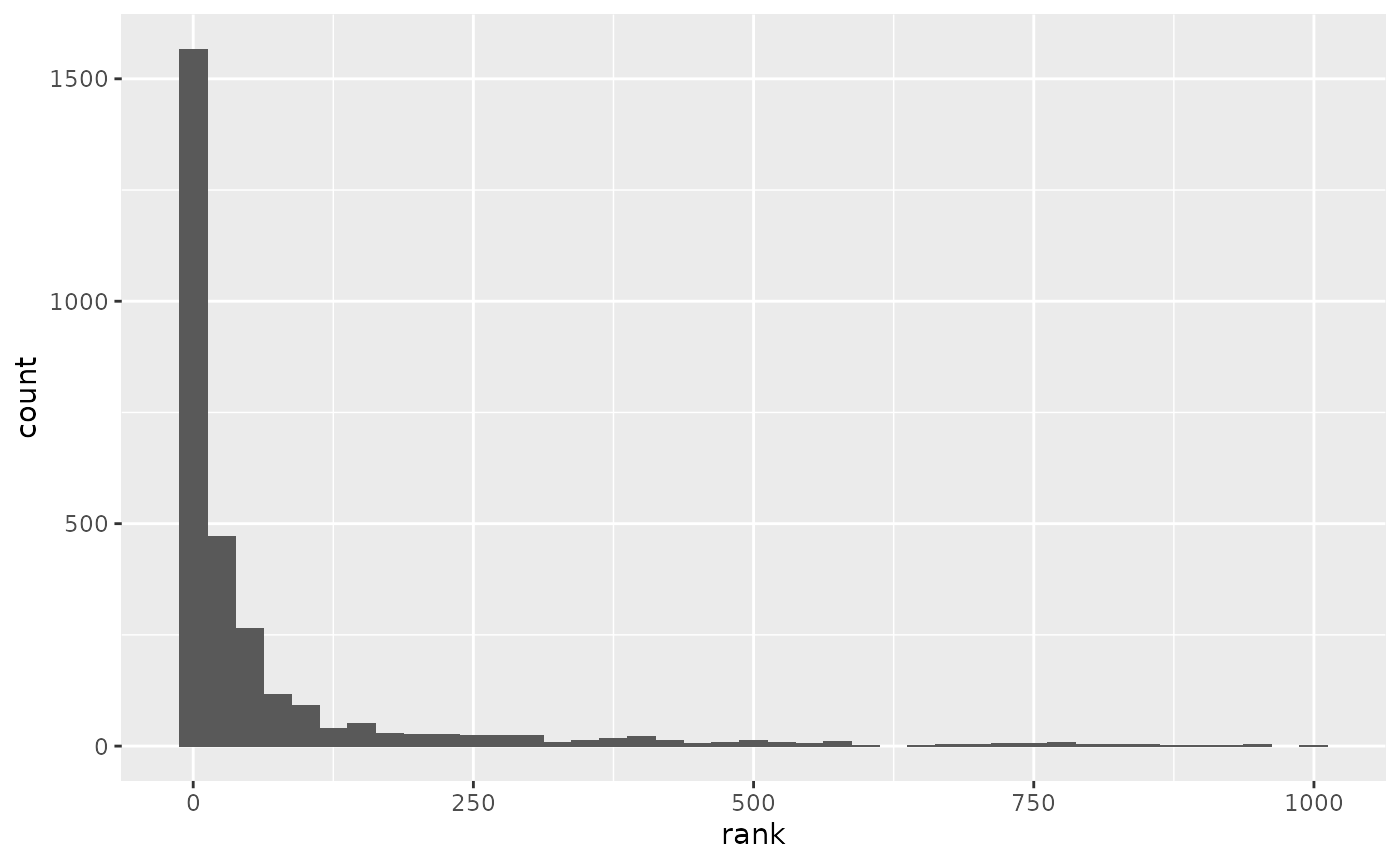
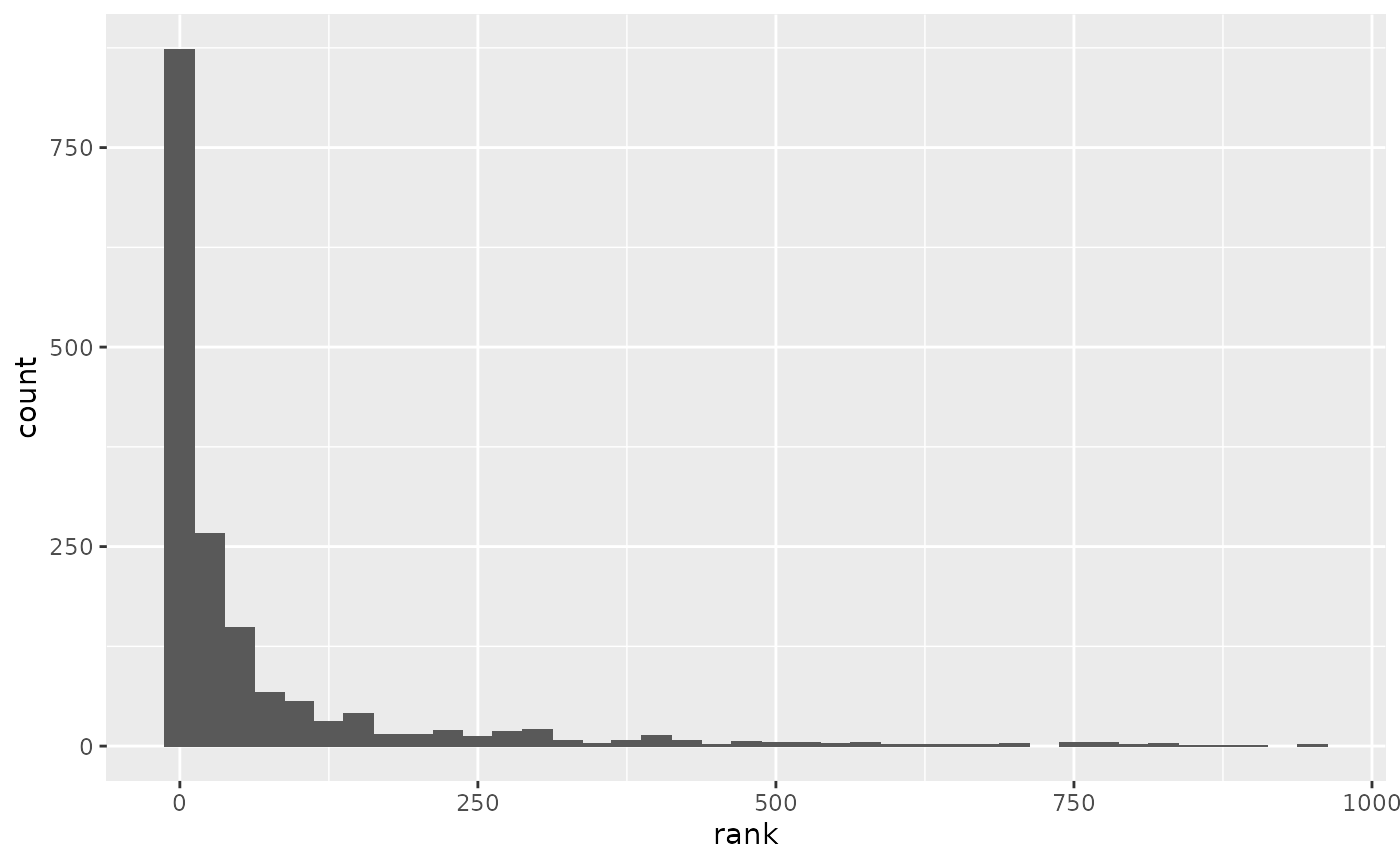
Update description of eval_sbo_predictor() in NEWS, vignette and website

diff --git a/docs/articles/sbo.html b/docs/articles/sbo.html
@@ -79,7 +79,7 @@
                   <a class="author_email" href="mailto:#"></a><a href="mailto:vgherard@sissa.it" class="email">vgherard@sissa.it</a>
       
                   
-            <h4 class="date">2020-11-26</h4>
+            <h4 class="date">2020-11-28</h4>
       
       <small class="dont-index">Source: <a href="https://github.com/vgherard/sbo/blob/master/vignettes/sbo.Rmd"><code>vignettes/sbo.Rmd</code></a></small>
       <div class="hidden name"><code>sbo.Rmd</code></div>
@@ -234,30 +234,32 @@
 <p>This Section leverages, for convenience, on:</p>
 <div class="sourceCode" id="cb12"><pre class="downlit sourceCode r">
 <code class="sourceCode R"><span class="kw"><a href="https://rdrr.io/r/base/library.html">library</a></span><span class="op">(</span><span class="va"><a href="https://dplyr.tidyverse.org">dplyr</a></span><span class="op">)</span> <span class="co"># installed with `sbo`</span></code></pre></div>
-<p>Once we have built our next-word predictor, we may want to directly test its predictions on an independent corpus. For this purpose, <code>sbo</code> offers the function <code>eval_sbo_predictor</code>, which performs the following test:</p>
+<p>Once we have built our next-word predictor, we may want to directly test its predictions on an independent corpus. For this purpose, <code>sbo</code> offers the function <code><a href="../reference/eval_sbo_predictor.html">eval_sbo_predictor()</a></code>, which samples <span class="math inline">\(N\)</span>-grams from a test corpus and compares the predictions from the <span class="math inline">\((N-1)\)</span>-gram prefixes with the true completions.</p>
+<p>More in detail, given a character vector <code>test</code>, where each entry of <code>test</code> represents a single document, <code><a href="../reference/eval_sbo_predictor.html">eval_sbo_predictor()</a></code> performs the following steps:</p>
 <ol style="list-style-type: decimal">
-<li>Sample a single <span class="math inline">\(N\)</span>-gram from each sentence of test corpus.</li>
+<li>Sample a single sentence from each entry of <code>test</code>, i.e. from each document.</li>
+<li>Sample a single <span class="math inline">\(N\)</span>-gram from each sentence obtained in the previous step.</li>
 <li>Predict next words from the <span class="math inline">\((N-1)\)</span>-gram prefix.</li>
 <li>Return all predictions, together with the true word completions.</li>
 </ol>
-<p>As a concrete example, we test the text-predictor trained in the previous section over the example dataset <code><a href="../reference/twitter_test.html">sbo::twitter_test</a></code>.</p>
+<p>For a reasonable estimate of prediction accuracy, the various entries of <code>test</code> should be independent documents, e.g. single tweets as in the <code><a href="../reference/twitter_test.html">sbo::twitter_test</a></code> example dataset, which we use below to test the previously trained predictor <code>p</code>.</p>
 <div class="sourceCode" id="cb13"><pre class="downlit sourceCode r">
 <code class="sourceCode R"><span class="fu"><a href="https://rdrr.io/r/base/Random.html">set.seed</a></span><span class="op">(</span><span class="fl">840</span><span class="op">)</span>
-<span class="op">(</span><span class="va">evaluation</span> <span class="op">&lt;-</span> <span class="fu"><a href="../reference/eval_sbo_predictor.html">eval_sbo_predictor</a></span><span class="op">(</span><span class="va">p</span>, <span class="fu">sbo</span><span class="fu">::</span><span class="va"><a href="../reference/twitter_test.html">twitter_test</a></span><span class="op">)</span><span class="op">)</span> <span class="co"># test &lt;- sbo::twitter_test</span>
-<span class="co">#&gt; # A tibble: 18,497 x 4</span>
-<span class="co">#&gt;    input            true      preds[,1] [,2]  [,3]    correct</span>
-<span class="co">#&gt;    &lt;chr&gt;            &lt;chr&gt;     &lt;chr&gt;     &lt;chr&gt; &lt;chr&gt;   &lt;lgl&gt;  </span>
-<span class="co">#&gt;  1 "oh hey"         shirtless a         &lt;EOS&gt; your    FALSE  </span>
-<span class="co">#&gt;  2 " "              how       i         &lt;EOS&gt; thanks  FALSE  </span>
-<span class="co">#&gt;  3 " ah"            no        &lt;EOS&gt;     i     yes     FALSE  </span>
-<span class="co">#&gt;  4 "he estudiado"   &lt;EOS&gt;     &lt;EOS&gt;     the   it      TRUE   </span>
-<span class="co">#&gt;  5 "nada d"         &lt;EOS&gt;     &lt;EOS&gt;     from  project TRUE   </span>
-<span class="co">#&gt;  6 "mama no"        esta      &lt;EOS&gt;     more  matter  FALSE  </span>
-<span class="co">#&gt;  7 "ya mean"        &lt;EOS&gt;     &lt;EOS&gt;     to    i       TRUE   </span>
-<span class="co">#&gt;  8 "tennis the"     scoring   word      same  best    FALSE  </span>
-<span class="co">#&gt;  9 " thanks"        for       for       &lt;EOS&gt; to      TRUE   </span>
-<span class="co">#&gt; 10 "concert wasn't" over      a         that  even    FALSE  </span>
-<span class="co">#&gt; # … with 18,487 more rows</span></code></pre></div>
+<span class="op">(</span><span class="va">evaluation</span> <span class="op">&lt;-</span> <span class="fu"><a href="../reference/eval_sbo_predictor.html">eval_sbo_predictor</a></span><span class="op">(</span><span class="va">p</span>, test <span class="op">=</span> <span class="fu">sbo</span><span class="fu">::</span><span class="va"><a href="../reference/twitter_test.html">twitter_test</a></span><span class="op">)</span><span class="op">)</span>
+<span class="co">#&gt; # A tibble: 10,000 x 4</span>
+<span class="co">#&gt;    input             true     preds[,1] [,2]    [,3]   correct</span>
+<span class="co">#&gt;    &lt;chr&gt;             &lt;chr&gt;    &lt;chr&gt;     &lt;chr&gt;   &lt;chr&gt;  &lt;lgl&gt;  </span>
+<span class="co">#&gt;  1 "how you"         doin'    been      feel    can    FALSE  </span>
+<span class="co">#&gt;  2 " "               s        i         &lt;EOS&gt;   thanks FALSE  </span>
+<span class="co">#&gt;  3 " what"           ya       is        a       are    FALSE  </span>
+<span class="co">#&gt;  4 "term for"        zero     the       a       you    FALSE  </span>
+<span class="co">#&gt;  5 "for sharing"     &lt;EOS&gt;    &lt;EOS&gt;     your    the    TRUE   </span>
+<span class="co">#&gt;  6 " lol"            &lt;EOS&gt;    &lt;EOS&gt;     i       i'm    TRUE   </span>
+<span class="co">#&gt;  7 "all of"          our      the       you     us     FALSE  </span>
+<span class="co">#&gt;  8 " "               but      i         &lt;EOS&gt;   thanks FALSE  </span>
+<span class="co">#&gt;  9 " promagentotuts" &lt;EOS&gt;    &lt;EOS&gt;     is      i      TRUE   </span>
+<span class="co">#&gt; 10 " happy"          birthday birthday  mothers new    TRUE   </span>
+<span class="co">#&gt; # … with 9,990 more rows</span></code></pre></div>
 <p>As it is seen, <code><a href="../reference/eval_sbo_predictor.html">eval_sbo_predictor()</a></code> returns a tibble containing the input <span class="math inline">\((N-1)\)</span>-grams, the true completions, the predicted completions and a column indicating whether one of the predictions were correct or not.</p>
 <p>We can estimate predictive accuracy as follows (the uncertainty in the estimate is approximated by the binomial formula <span class="math inline">\(\sigma = \sqrt{\frac{p(1-p)}{M}}\)</span>, where <span class="math inline">\(M\)</span> is the number of trials):</p>
 <div class="sourceCode" id="cb14"><pre class="downlit sourceCode r">
@@ -267,7 +269,7 @@
 <span class="co">#&gt; # A tibble: 1 x 2</span>
 <span class="co">#&gt;   accuracy uncertainty</span>
 <span class="co">#&gt;      &lt;dbl&gt;       &lt;dbl&gt;</span>
-<span class="co">#&gt; 1    0.345     0.00349</span></code></pre></div>
+<span class="co">#&gt; 1    0.332     0.00471</span></code></pre></div>
 <p>We may want to exclude from the test <span class="math inline">\(N\)</span>-grams ending by the End-Of-Sentence token (here represented by <code>"&lt;EOS&gt;"</code>):</p>
 <div class="sourceCode" id="cb15"><pre class="downlit sourceCode r">
 <code class="sourceCode R"><span class="va">evaluation</span> <span class="op">%&gt;%</span> <span class="co"># Accuracy for in-sentence predictions</span>
@@ -278,7 +280,7 @@
 <span class="co">#&gt; # A tibble: 1 x 2</span>
 <span class="co">#&gt;   accuracy uncertainty</span>
 <span class="co">#&gt;      &lt;dbl&gt;       &lt;dbl&gt;</span>
-<span class="co">#&gt; 1    0.198     0.00327</span></code></pre></div>
+<span class="co">#&gt; 1    0.203     0.00444</span></code></pre></div>
 <p>In trying to reduce the size (in physical memory) of your text-predictor, it might be useful to prune the model dictionary. The following command plots an histogram of the distribution of correct predictions in our test.</p>
 <div class="sourceCode" id="cb16"><pre class="downlit sourceCode r">
 <code class="sourceCode R"><span class="kw">if</span> <span class="op">(</span><span class="kw"><a href="https://rdrr.io/r/base/library.html">require</a></span><span class="op">(</span><span class="va"><a href="http://ggplot2.tidyverse.org">ggplot2</a></span><span class="op">)</span><span class="op">)</span> <span class="op">{</span>
@@ -381,11 +383,11 @@
 <span class="fu"><a href="https://rdrr.io/r/base/lapply.html">lapply</a></span><span class="op">(</span><span class="fu"><a href="https://rdrr.io/r/base/list.html">list</a></span><span class="op">(</span>sbo_predictor <span class="op">=</span> <span class="va">p</span>, kgram_freqs <span class="op">=</span> <span class="va">f</span><span class="op">)</span>, <span class="va">chrono_predict</span><span class="op">)</span>
 <span class="co">#&gt; $sbo_predictor</span>
 <span class="co">#&gt;    user  system elapsed </span>
-<span class="co">#&gt;       0       0       0 </span>
+<span class="co">#&gt;   0.001   0.000   0.000 </span>
 <span class="co">#&gt; </span>
 <span class="co">#&gt; $kgram_freqs</span>
 <span class="co">#&gt;    user  system elapsed </span>
-<span class="co">#&gt;   0.138   0.000   0.138</span></code></pre></div>
+<span class="co">#&gt;   0.129   0.000   0.130</span></code></pre></div>
 </div>
 <div id="text-preprocessing" class="section level3">
 <h3 class="hasAnchor">

diff --git a/docs/reference/eval_sbo_predictor.html b/docs/reference/eval_sbo_predictor.html
@@ -136,7 +136,8 @@ model on a test corpus.</p>
     </tr>
     <tr>
       <th>test</th>
-      <td><p>a character vector. Test corpus for model evaluation.</p></td>
+      <td><p>a character vector. Perform a single prediction on each entry of
+this vector (see details).</p></td>
     </tr>
     <tr>
       <th>L</th>
@@ -152,11 +153,17 @@ the predicted completions and a column indicating whether one of the
 predictions were correct or not.</p>
     <h2 class="hasAnchor" id="details"><a class="anchor" href="#details"></a>Details</h2>
 
-    <p>This function allows to obtain information on Stupid Back-off model
-predictions, such as next-word prediction accuracy, or the word-rank
-distribution of correct prediction, by direct test against a test set corpus.</p>
-<p><code>eval_sbo_predictor</code> performs the following operations:</p><ol>
-<li><p>Sample a single $N$-gram from each sentence of test corpus.</p></li>
+    <p>This function allows to obtain information on the quality of
+Stupid Back-off model predictions, such as next-word prediction accuracy,
+or the word-rank distribution of correct prediction, by direct test against
+a test set corpus. For a reasonable estimate of prediction accuracy, the
+different entries of the <code>test</code> vector should be uncorrelated
+documents (e.g. separate tweets, as in the <code><a href='twitter_test.html'>twitter_test</a></code>
+example dataset).</p>
+<p>More in detail, <code>eval_sbo_predictor</code> performs the following operations:</p><ol>
+<li><p>Sample a single sentence from each entry of the character vector
+<code>test</code>.</p></li>
+<li><p>Sample a single $N$-gram from each sentence obtained in the previous step.</p></li>
 <li><p>Predict next words from the $(N-1)$-gram prefix.</p></li>
 <li><p>Return all predictions, together with the true word completions.</p></li>
 </ol>

diff --git a/docs/news/index.html b/docs/news/index.html
@@ -152,9 +152,14 @@
 <h4 class="hasAnchor">
 <a href="#other-improvements-and-patches" class="anchor"></a>Other improvements and patches</h4>
 <ul>
-<li>The Stupid Back-Off algorithm is now thoroughly tested, and small inconsistencies between the <code>predict.kgram_freqs()</code> and <code><a href="../reference/predict.sbo_predictor.html">predict.sbo_predictor()</a></code> methods have been fixed, including: - Proper handling of unknown words - Consistent handling of ties in prediction probabilities.</li>
-<li>Removed unnecessary <code>Depends</code> from DESCRIPTION.</li>
-<li>Removed various avoidable <code>Imports</code>.</li>
+<li>
+<p>The Stupid Back-Off algorithm is now thoroughly tested, and small inconsistencies between the <code>predict.kgram_freqs()</code> and <code><a href="../reference/predict.sbo_predictor.html">predict.sbo_predictor()</a></code> methods have been fixed, including:</p>
+<div class="sourceCode" id="cb2"><pre class="sourceCode R"><code class="sourceCode r"><span id="cb2-1"><a href="#cb2-1"></a>  <span class="op">-</span><span class="st"> </span>Proper handling of unknown words</span>
+<span id="cb2-2"><a href="#cb2-2"></a>  <span class="op">-</span><span class="st"> </span>Consistent handling of ties <span class="cf">in</span> prediction probabilities.</span></code></pre></div>
+</li>
+<li><p>Model evaluation in <code><a href="../reference/eval_sbo_predictor.html">eval_sbo_predictor()</a></code> is now carried out by sampling a single sentence from each document in test corpus.</p></li>
+<li><p>Removed unnecessary <code>Depends</code> from DESCRIPTION.</p></li>
+<li><p>Removed various avoidable <code>Imports</code>.</p></li>
 </ul>
 </div>
 </div>

diff --git a/NEWS.md b/NEWS.md
@@ -34,8 +34,11 @@ correspondingly, the output of `print()` has been simplified considerably (#5).
 * The Stupid Back-Off algorithm is now thoroughly tested, and small 
 inconsistencies between the `predict.kgram_freqs()` and 
 `predict.sbo_predictor()` methods have been fixed, including:
+
         - Proper handling of unknown words
         - Consistent handling of ties in prediction probabilities.
+* Model evaluation in `eval_sbo_predictor()` is now carried out by sampling
+a single sentence from each document in test corpus.
 * Removed unnecessary `Depends` from DESCRIPTION.
 * Removed various avoidable `Imports`.
 
